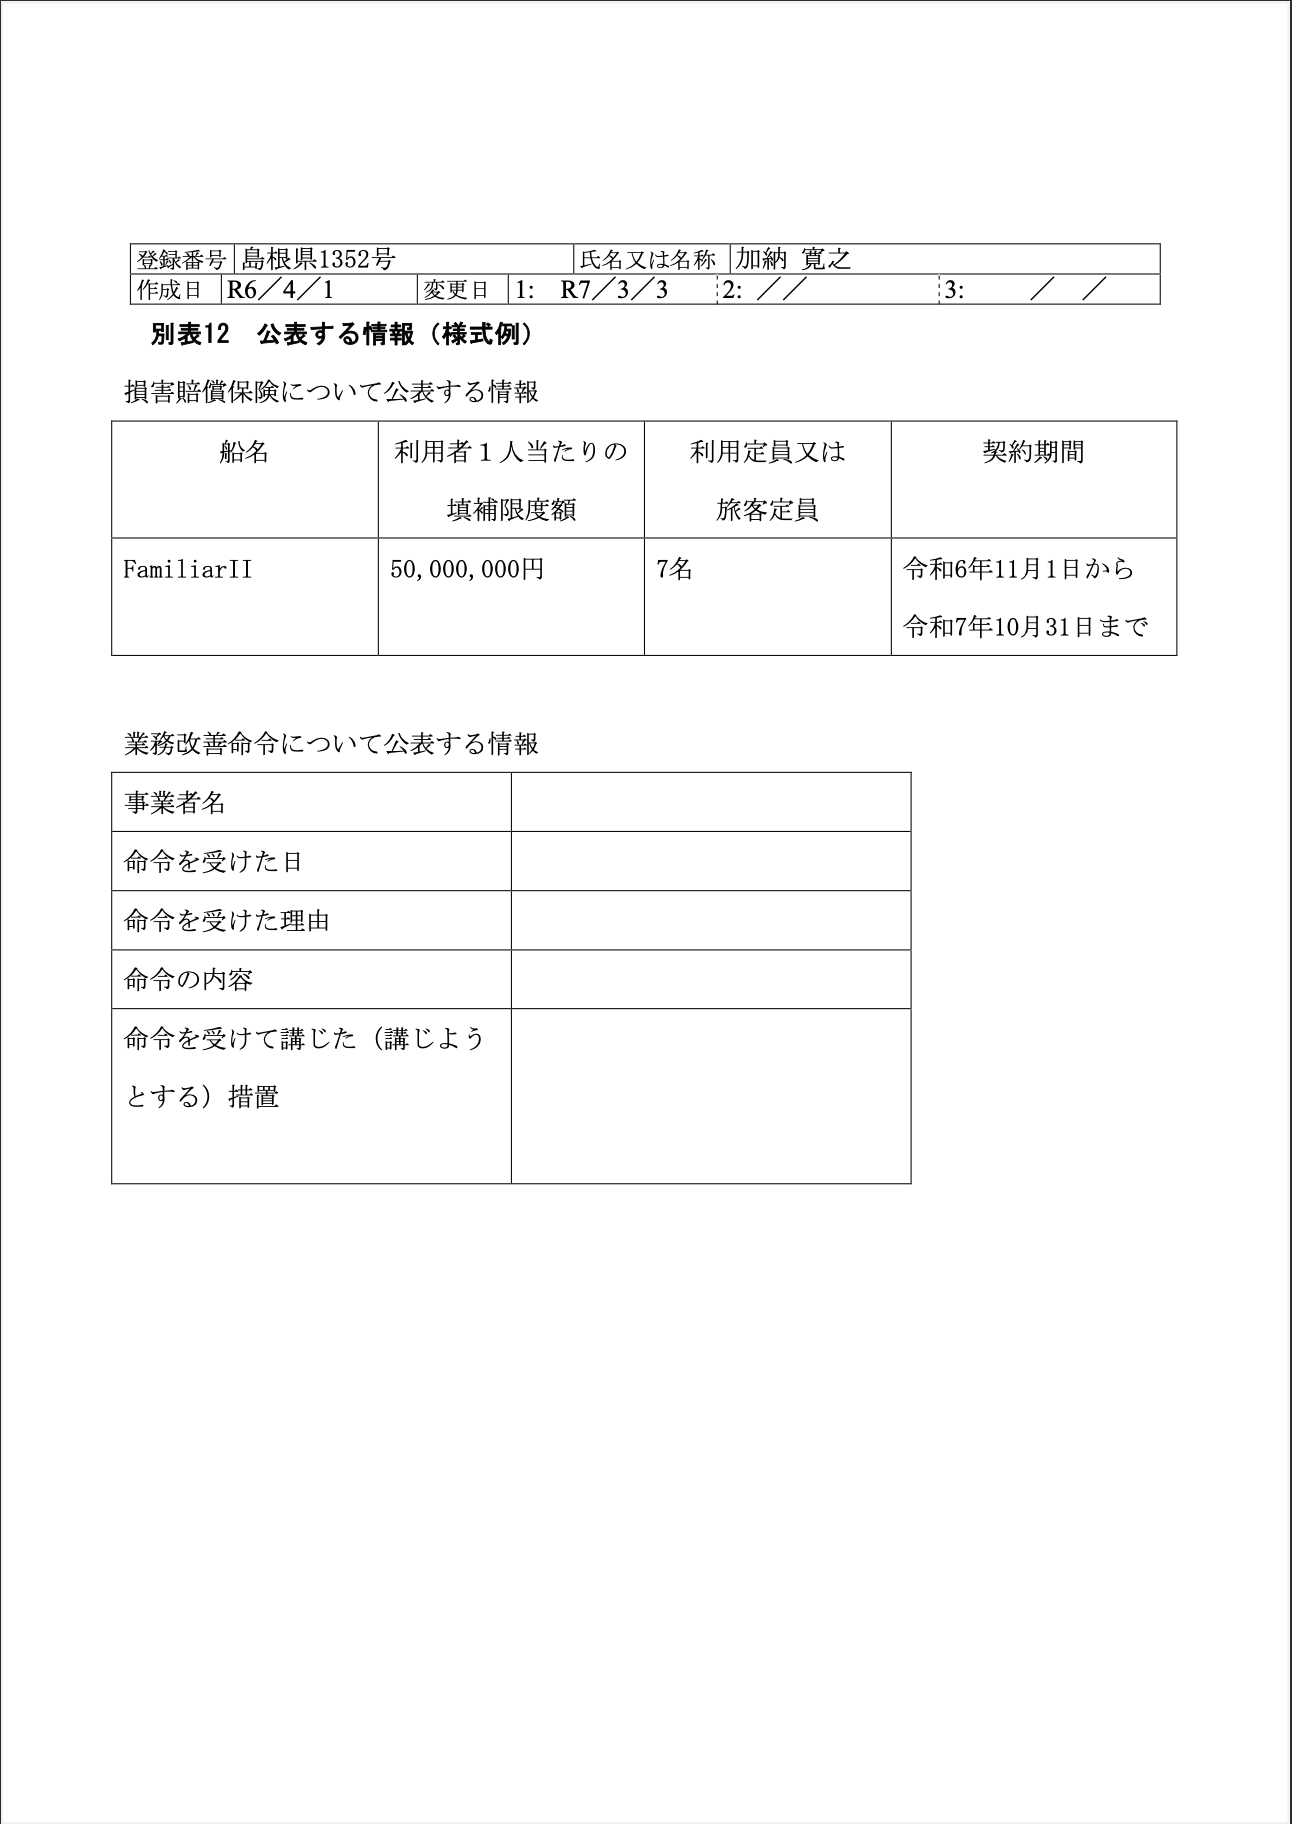
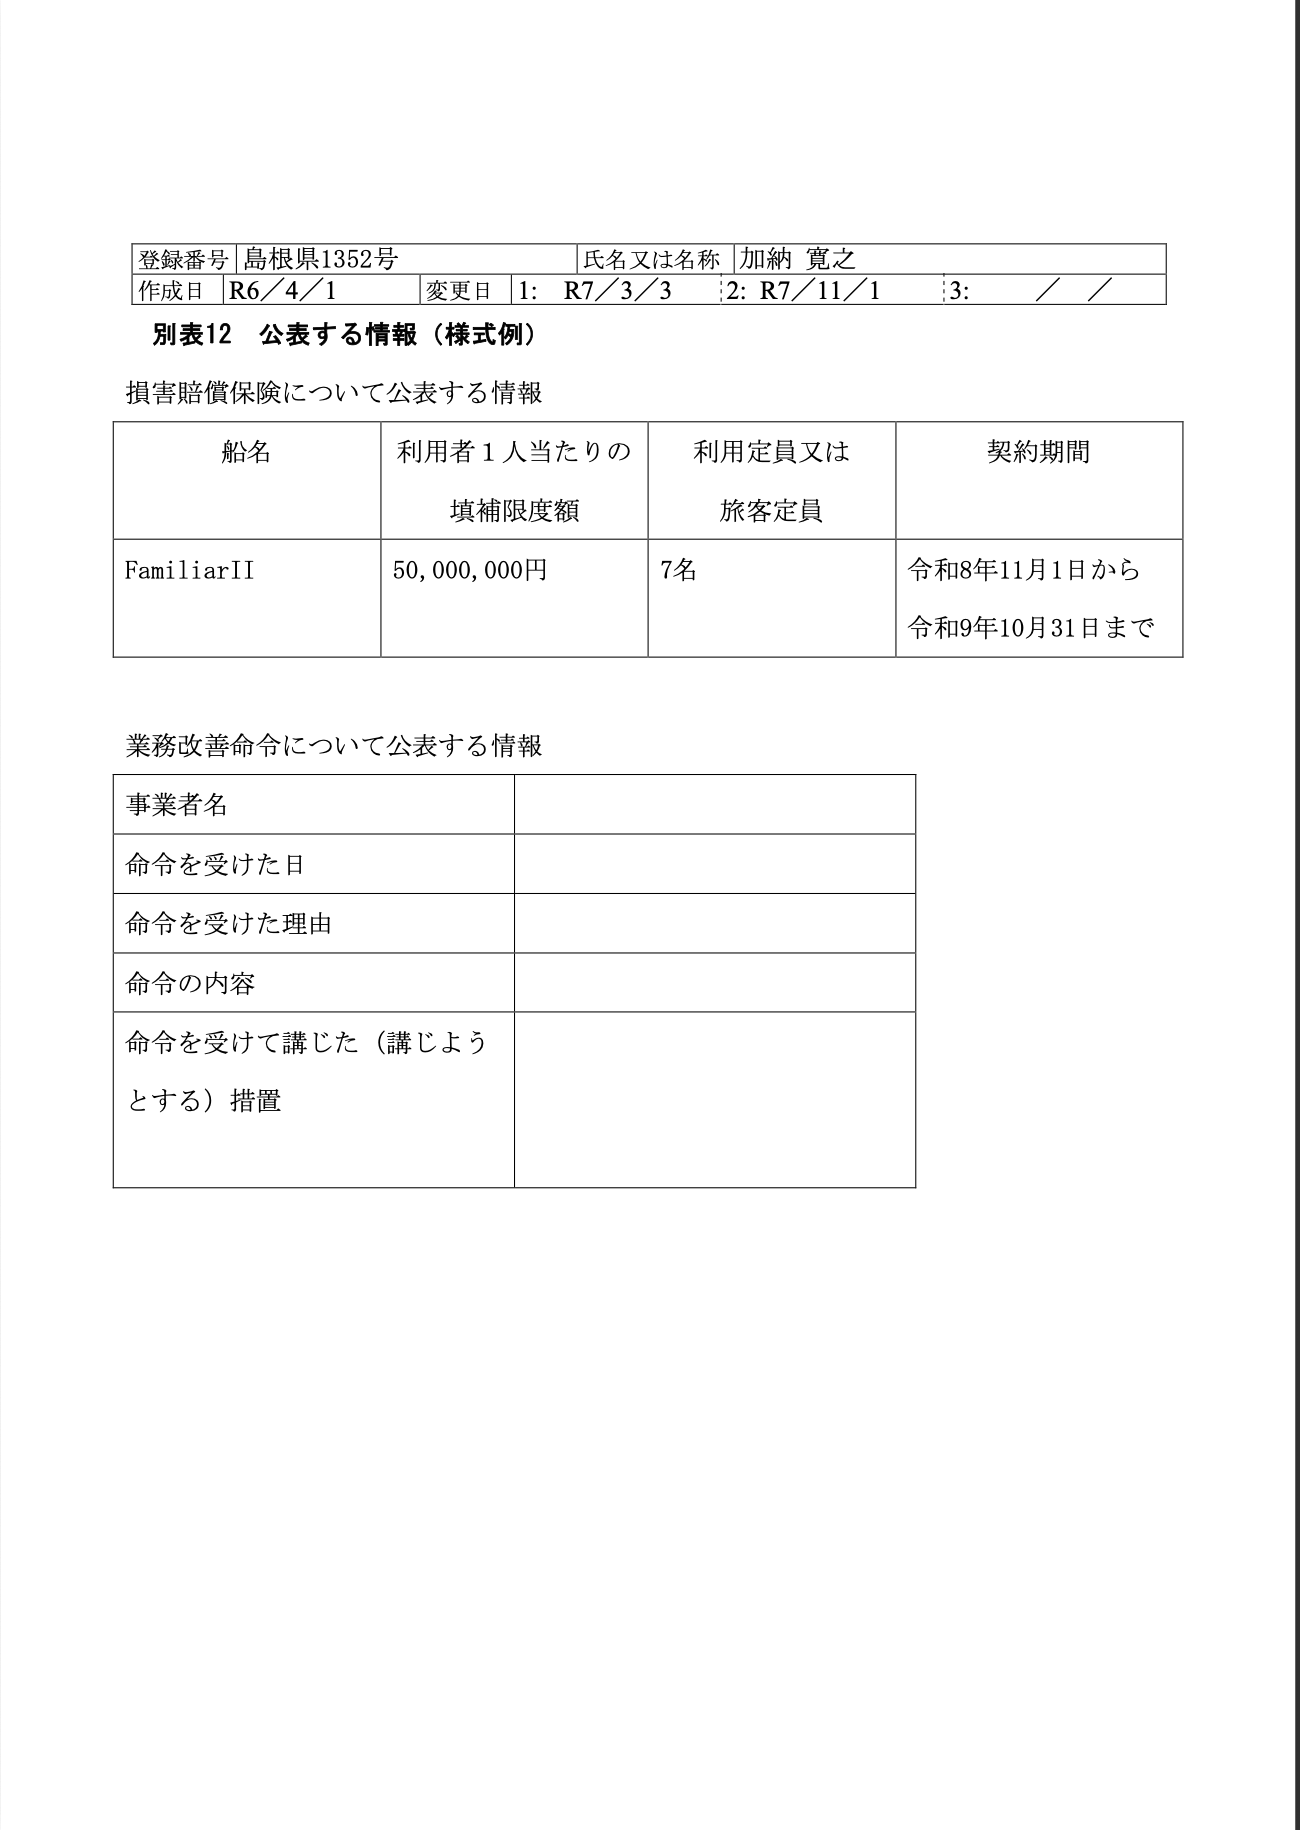
update: safty_infop

diff --git a/index.html b/index.html
@@ -295,7 +295,7 @@
         />
         <img
           class="slides"
-          src="./images/safety_info/tourokuhyou_20251101.png"
+          src="./images/safety_info/tourokuhyou_20261101.png"
           alt="遊漁船業者登録票"
           style="border: solid"
         />
